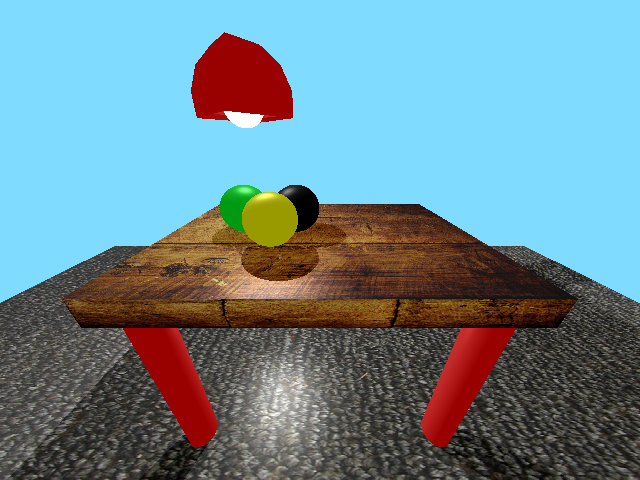
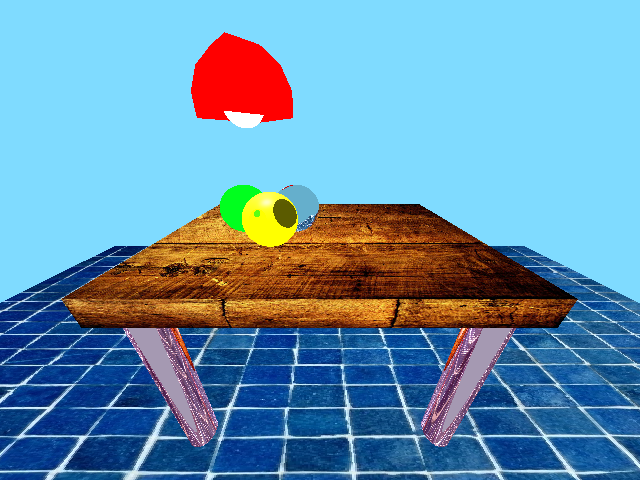
BumpMapping v2

diff --git a/trunk/src/SceneGraph.cpp b/trunk/src/SceneGraph.cpp
@@ -113,10 +113,10 @@ SceneGraph::SceneGraph(){
 	loadObj("models/lamp.obj", myUtil::color(255,0,0), myUtil::PosHom(-0.5,2.7,1.5));
 	addLightSource(Light(myUtil::PosHom(-0.5,2.7,1.5), CVector<float>(4,1), false, myUtil::color(0.9,0.9,0.9)));
 	objects.push_back(new Sphere(0.4, myUtil::PosHom(-0.5,2.7,1.5), myUtil::color(10000000, 10000000, 10000000), true));
-	objects.push_back(new Plane(myUtil::PosHom(8,-4.25,-14), myUtil::PosHom(-8,-4.25,-14), myUtil::PosHom(8,-4.25,14),myUtil::PosHom(0,1,0),myUtil::PosHom(0,0,0),0,0,"floor.jpg"));
+	objects.push_back(new Plane(myUtil::PosHom(8,-4.25,-14), myUtil::PosHom(-8,-4.25,-14), myUtil::PosHom(8,-4.25,14),myUtil::PosHom(0,1,0),myUtil::PosHom(0,0,0),0,0,"tile.jpg","tile_bump.jpg"));
 	objects.push_back(new Box(myUtil::PosHom(0,0,0), myUtil::PosHom(4.5,0.5,6.5), myUtil::color(0,255,255),0,0,"wood.jpg"));
 	objects.push_back(new Cylinder(myUtil::PosHom(1.8,-4.25,2.8), 4, myUtil::color(255,0,0),0.3));
-	objects.push_back(new Cylinder(myUtil::PosHom(-1.8,-4.25,2.8), 4, myUtil::color(255,0,0),0.3));http://mayang.com/textures/Fabric/images/Other%20Fabrics/tightly_woven_black_carpet_060293.JPG
+	objects.push_back(new Cylinder(myUtil::PosHom(-1.8,-4.25,2.8), 4, myUtil::color(255,0,0),0.3));
 	objects.push_back(new Cylinder(myUtil::PosHom(1.8,-4.25,-2.8), 4, myUtil::color(255,0,0),0.3));
 	objects.push_back(new Cylinder(myUtil::PosHom(-1.8,-4.25,-2.8), 4, myUtil::color(255,0,0),0.3));
 	addLightSource(Light(myUtil::PosHom(-0.5,-1,1.5), CVector<float>(4,1), false, myUtil::color(0.9,0.9,0.9)));

diff --git a/trunk/src/Plane.cpp b/trunk/src/Plane.cpp
@@ -106,7 +106,7 @@ CVector<float> Plane::getNormal(float x, float y){
 
 		float x = (xPlus-center)-(xMinus-center);
 		float z = (yPlus-center)-(yMinus-center);
-		CVector<float> back = myUtil::color(x,1,z);
+		CVector<float> back = myUtil::color(-x,30,-z);
 		back *= (1.0/back.norm());
 		return myUtil::PosHom(back(0),back(1),back(2));
 	}else{

diff --git a/trunk/src/RayTracer.h b/trunk/src/RayTracer.h
@@ -58,7 +58,7 @@ private:
 	char sampling;
 	char reconstruction;
 	int rayCount;
-	static const int recursionDepth = 1;
+	static const int recursionDepth = 2;
 };
 
 #endif /* RAYTRACER_H_ */
